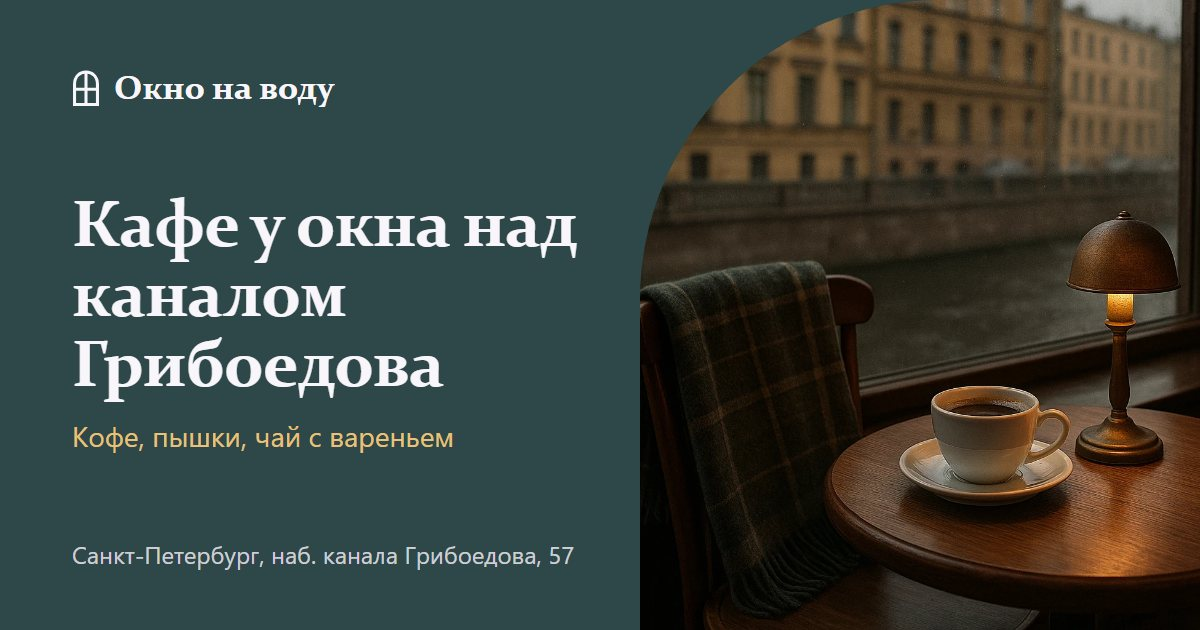
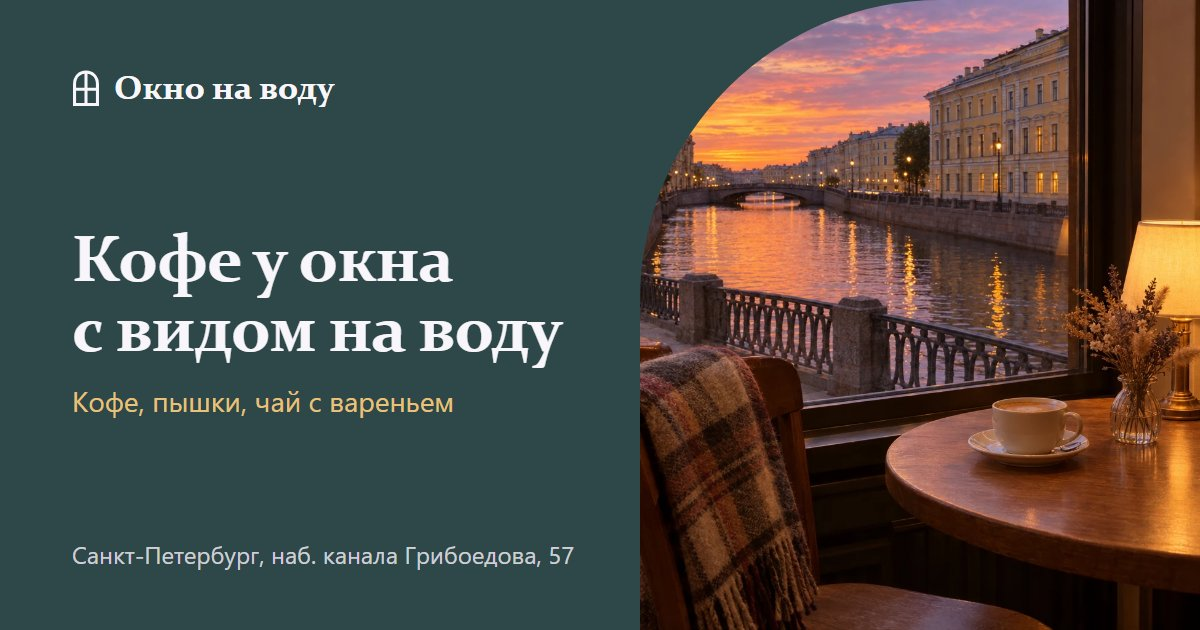
Превью ссылки с закатом
- Новая картинка для превью ссылки (og.jpg): заголовок «Кофе у окна с видом на воду» и фото заката над каналом
- Обновлено описание этой картинки в разметке страницы

diff --git a/index.html b/index.html
@@ -17,7 +17,7 @@
 <meta property="og:image" content="https://agnia777.github.io/okno-na-vodu/img/og.jpg">
 <meta property="og:image:width" content="1200">
 <meta property="og:image:height" content="630">
-<meta property="og:image:alt" content="Круглый столик у окна с чашкой кофе и лампой, за стеклом канал Грибоедова">
+<meta property="og:image:alt" content="Столик у окна на закате: чашка кофе и лампа, за стеклом канал Грибоедова с розовым небом">
 <meta name="twitter:card" content="summary_large_image">
 <meta name="description" content="Кафе «Окно на воду» на канале Грибоедова в Санкт-Петербурге: кофе, пышки, чай с вареньем и столик у окна с видом на воду. Концепт сайта.">
 <script type="application/ld+json">
